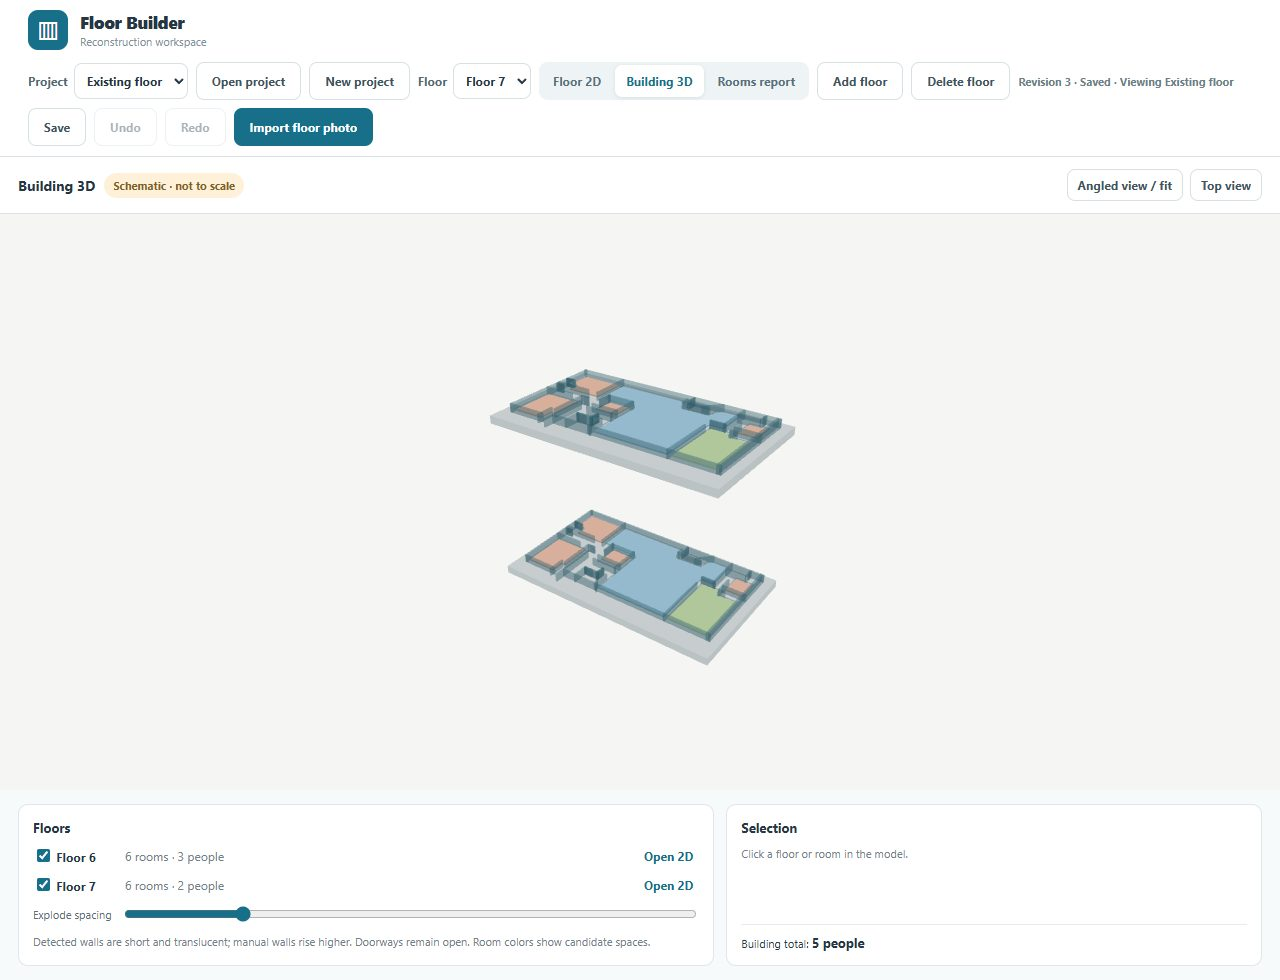
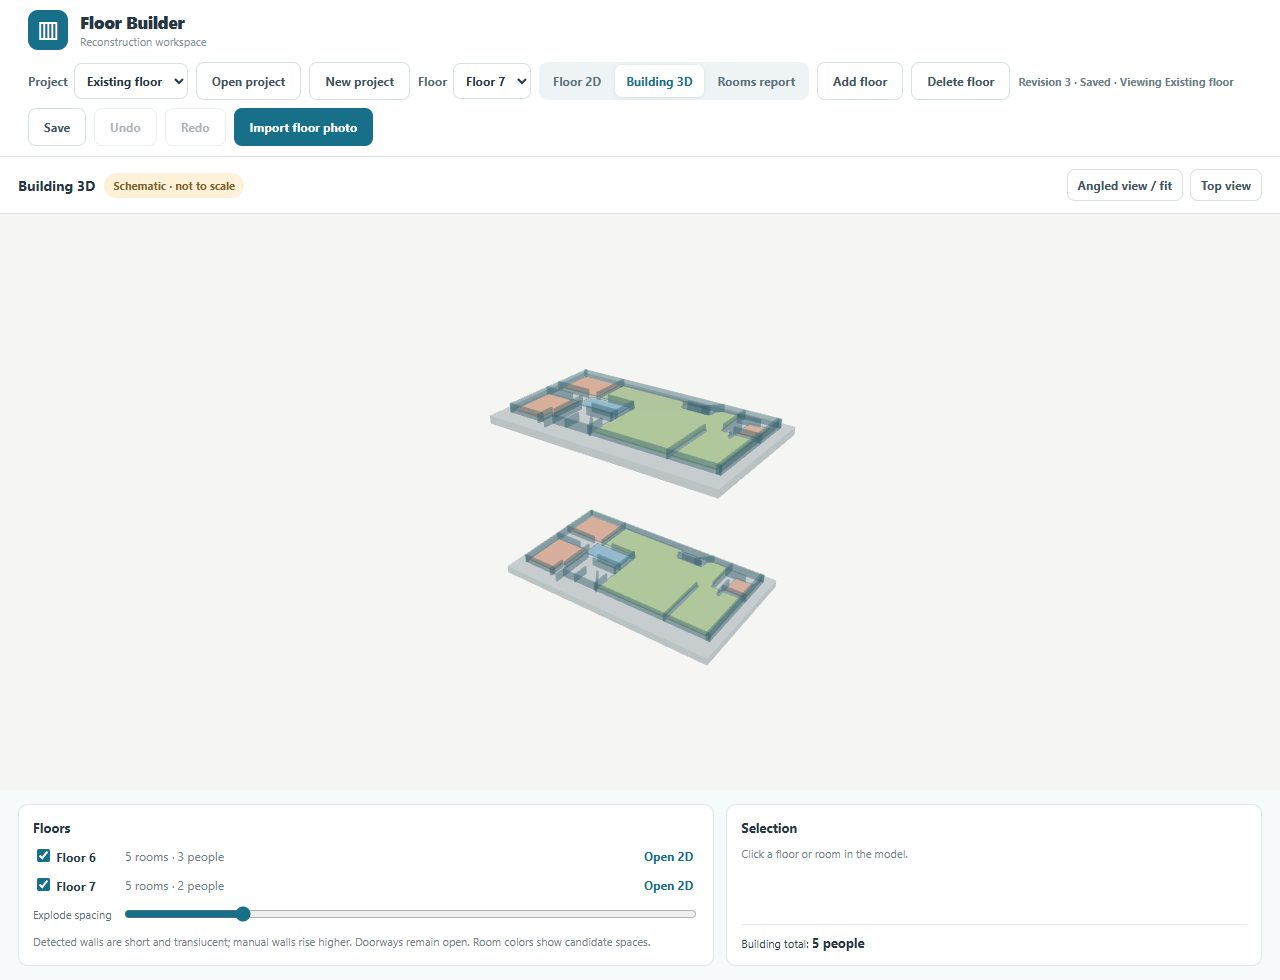
Update public overview from 6409007

Changed region(s): [[0.4375, 0.5204, 0.5938, 0.6429], [0.4375, 0.3673, 0.5938, 0.4592]]

diff --git a/README.md b/README.md
@@ -4,7 +4,7 @@ Floor Builder turns a floor-plan image into editable rooms and a multi-floor bui
 
 ## Workflow
 
-1. **Import and review.** Upload a floor-plan image, compare it with suggested walls and rooms, and correct the layout before using the results.
+1. **Import and review.** Upload a floor-plan image and compare it with suggested walls and rooms. Detection favors longer lines to reduce false walls from labels; draw missing short walls during review.
 
    ![Simple demo plan with suggested rooms overlaid on the source image](images/photo-overlay.jpg)
 
